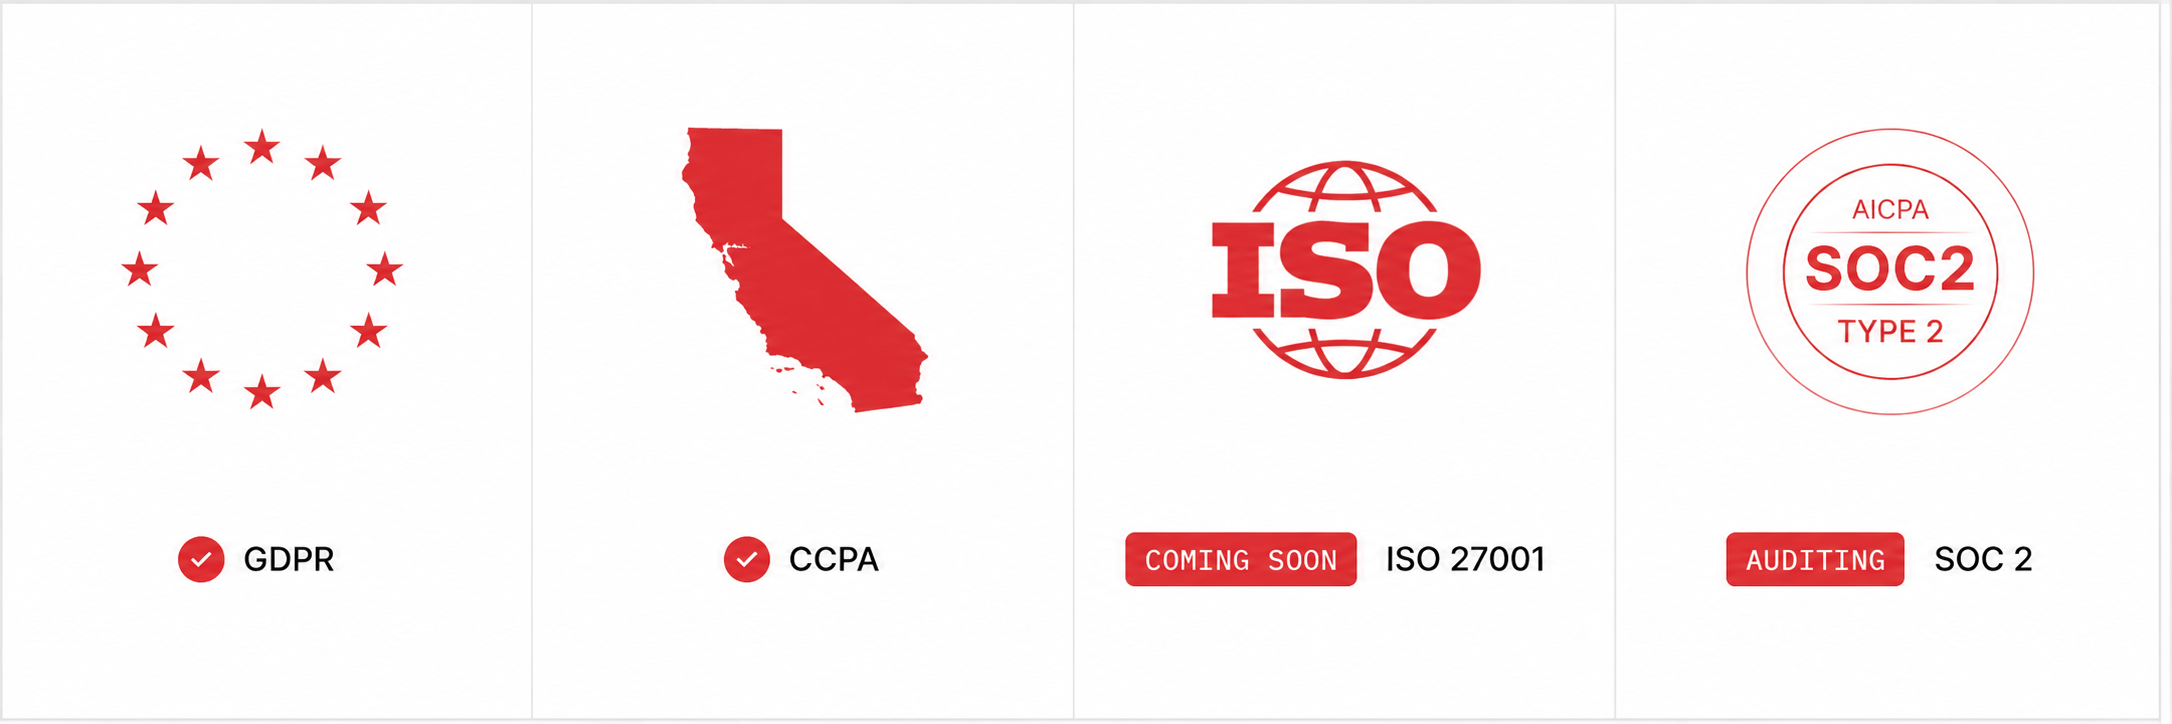
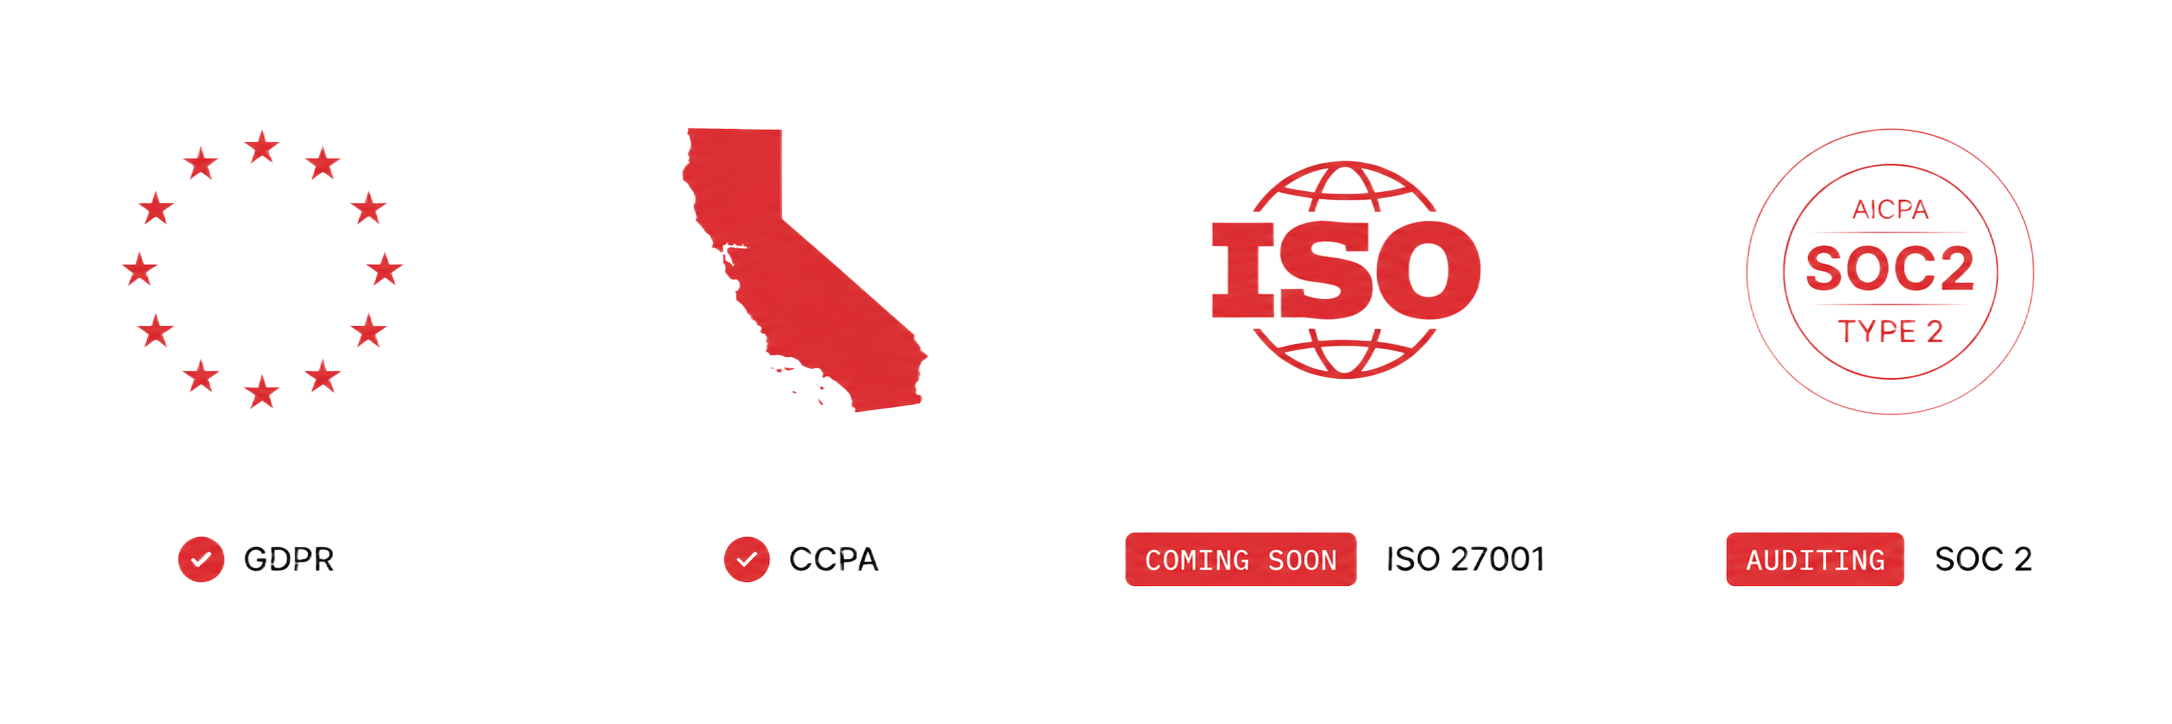
New compliance strip; Verticals takes both eyebrow and heading
- Replace the badge artwork. This version has a transparent background, so
  the bordered card around it goes — a box there would have been drawn round
  empty space rather than round the artwork
- Verticals leads with the mono eyebrow again and keeps the Cardo heading
  under it. The red tick rides the eyebrow, so .marked is no longer needed
  and comes out rather than sitting unused

diff --git a/components/Security.tsx b/components/Security.tsx
@@ -5,6 +5,10 @@ import complianceImage from '@/public/assets/web/compliance.png'
   The badge strip is supplied artwork, sitting below the statement rather
   than beside it: it is a 3:1 letterbox, and in a side column it would have
   come down to about 170px tall with the labels too small to read.
+
+  Its background is transparent, so it sits straight on the page ground with
+  no card or border around it — a box here would be drawn around empty space
+  rather than around the artwork.
 */
 export default function Security() {
   return (
@@ -18,15 +22,12 @@ export default function Security() {
           </p>
         </div>
 
-        <div className="overflow-hidden rounded-2xl border border-ace-line">
-          <Image
-            src={complianceImage}
-            alt="GDPR ready. CCPA ready. ISO 27001 coming soon. SOC 2 auditing."
-            placeholder="blur"
-            sizes="(max-width: 1128px) 100vw, 1128px"
-            className="h-auto w-full"
-          />
-        </div>
+        <Image
+          src={complianceImage}
+          alt="GDPR ready. CCPA ready. ISO 27001 coming soon. SOC 2 auditing."
+          sizes="(max-width: 1128px) 100vw, 1128px"
+          className="h-auto w-full"
+        />
       </div>
     </section>
   )

diff --git a/components/Capability.tsx b/components/Capability.tsx
@@ -17,9 +17,10 @@ export default function Capability() {
       className="section-y flex scroll-mt-24 flex-col gap-8 px-4 md:flex-row md:items-center md:gap-16 md:pl-gutter md:pr-2"
     >
       <div className="w-full flex flex-col gap-6 md:w-[449px]">
-        {/* A display heading rather than the mono eyebrow the other sections
-            lead with, but carrying the same red tick they do. */}
-        <h2 className="display-lg marked">Verticals</h2>
+        {/* Eyebrow and heading both, as on the service sections — the red
+            tick rides the eyebrow, so the heading does not repeat it. */}
+        <span className="label">Verticals</span>
+        <h2 className="display-lg">Verticals</h2>
         <p className="text-base leading-[1.6] text-ace-ink md:text-[18px]">
           Private equity funds, investment banks, M&amp;A boutiques, family
           offices and PE-backed portfolio companies. In the lower-mid and

diff --git a/app/globals.css b/app/globals.css
@@ -117,16 +117,6 @@
     @apply mr-[10px] h-[6px] w-[6px] flex-none bg-ace-red;
   }
 
-  /* The same tick, for a section that leads with a display heading instead
-     of an eyebrow. Scaled up to sit against the larger type. */
-  .marked {
-    @apply flex items-center;
-  }
-  .marked::before {
-    content: "";
-    @apply mr-4 h-[10px] w-[10px] flex-none bg-ace-red;
-  }
-
   /*
     Section ordinals — the 01/02/03 that number the items in a list. One
     class so both the face and the colour are a single decision everywhere,
